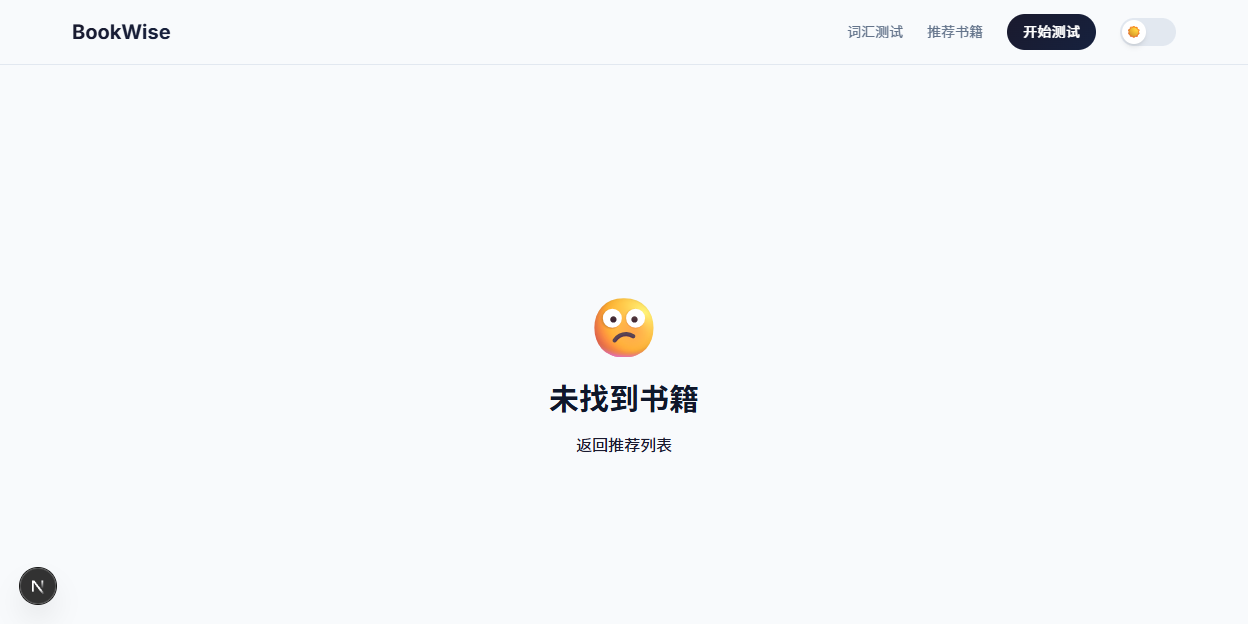
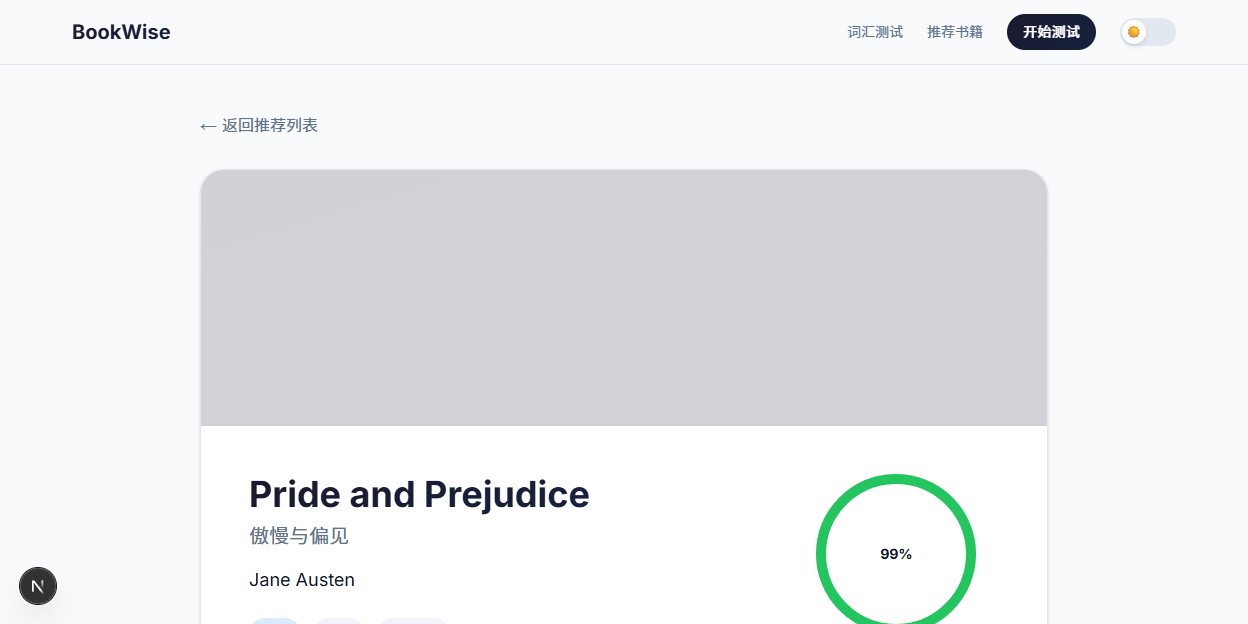
docs: fix README location to repo root, update screenshots with book covers
- Move README.md to repo root so GitHub displays it
- Update screenshots: recommend page now shows actual book covers
- Book detail page shows Open Library cover image

diff --git a/README.md b/README.md
@@ -1,0 +1,105 @@
+# BookWise 📚
+
+> 根据英语词汇量 AI 推荐 80% 词汇覆盖率的英文书籍
+
+BookWise 帮助中国英语学习者找到适合自己词汇水平的全英文书籍。通过自适应词汇测试推算你的词汇量，然后自动筛选出词汇覆盖率 ≥80% 的书籍，让英文阅读不再是痛苦的查词过程。
+
+## 📸 预览
+
+![首页](bookwise/screenshots/homepage.png)
+
+![词汇测试](bookwise/screenshots/test-page.png)
+
+![推荐列表](bookwise/screenshots/recommend-page.png)
+
+![书籍详情](bookwise/screenshots/book-detail.png)
+
+## ✨ 核心功能
+
+- **🧠 自适应词汇测试** — 基于 COCA 词频表的贝叶斯推算，30 词精准评估词汇量
+- **📊 多种输入方式** — 支持在线测试、直接输入、考试成绩映射（四六级/考研/托福/雅思）、导入单词表
+- **📈 智能覆盖率计算** — 按词频分布精确计算每本书的词汇覆盖率
+- **📚 个性化推荐** — 80 本经典英文书，按覆盖率排序，支持难度/分类筛选
+- **📖 书籍详情** — 每本书都有封面图片、中文简介、覆盖率分析和阅读建议
+- **🌙 深色模式** — 支持浅色/深色主题切换，自动保存偏好
+
+## 🛠️ 技术栈
+
+| 类别 | 技术 |
+|------|------|
+| 框架 | Next.js 16 + React 19 + TypeScript |
+| 样式 | Tailwind CSS v4 + Framer Motion |
+| 数据 | COCA 词频表 (2000词) + Open Library 封面 |
+| 算法 | 自适应贝叶斯词汇量推算 + 词频覆盖率计算 |
+| 部署 | Vercel Serverless |
+
+## 🚀 快速开始
+
+```bash
+# 克隆仓库
+git clone https://github.com/yixiaobai57/bookwise.git
+cd bookwise
+
+# 安装依赖
+npm install
+
+# 启动开发服务器
+npm run dev
+```
+
+打开 http://localhost:3000 即可预览。
+
+## 📁 项目结构
+
+```
+bookwise/
+├── app/
+│   ├── page.tsx              # 首页（Hero + 功能介绍）
+│   ├── test/page.tsx         # 词汇测试页（4种输入方式）
+│   ├── recommend/page.tsx    # 推荐列表页（筛选 + 卡片网格）
+│   ├── book/[id]/page.tsx    # 书籍详情页（封面 + 简介 + 覆盖率）
+│   └── api/                  # Serverless API 路由
+├── components/               # React 组件
+│   ├── Navbar.tsx            # 顶部导航（含深色模式切换）
+│   ├── BookCard.tsx          # 书籍卡片（封面 + 覆盖率圆环）
+│   ├── VocabularyTest.tsx    # 自适应词汇测试组件
+│   ├── CoverageCircle.tsx    # 覆盖率圆形进度条
+│   └── FilterBar.tsx         # 筛选标签栏
+├── lib/                      # 核心算法库
+│   ├── vocabulary.ts         # 贝叶斯词汇量推算
+│   ├── coverage.ts           # 覆盖率计算引擎
+│   ├── recommend.ts          # 推荐算法
+│   └── ai-analyze.ts         # AI 语义分析
+├── data/                     # 数据文件
+│   ├── books.json            # 80 本精选书库（含封面URL和简介）
+│   ├── coca-frequency.json   # COCA 词频表（前2000词）
+│   └── exam-mapping.json     # 考试成绩→词汇量映射
+└── public/                   # 静态资源
+```
+
+## 🌐 部署到 Vercel
+
+1. 推送代码到 GitHub
+2. 访问 [vercel.com](https://vercel.com)
+3. 点击 **"Add New" → "Project"**
+4. 导入 `bookwise` 仓库
+5. 点击 **"Deploy"** 即可
+
+## 📖 书籍库
+
+80 本精选英文书，涵盖：
+
+| 分类 | 示例书籍 |
+|------|----------|
+| 小说 | 傲慢与偏见、简·爱、了不起的盖茨比 |
+| 科幻 | 1984、沙丘、饥饿游戏 |
+| 历史 | 双城记、罗马帝国衰亡史 |
+| 哲学 | 理想国、沉思录、君主论 |
+| 科普 | 物种起源、时间简史、寂静的春天 |
+| 传记 | 本杰明·富兰克林自传、海伦·凯勒自传 |
+
+难度分级：四级 / 六级 / 考研 / 托福 / 雅思
+
+## 📄 许可证
+
+MIT License